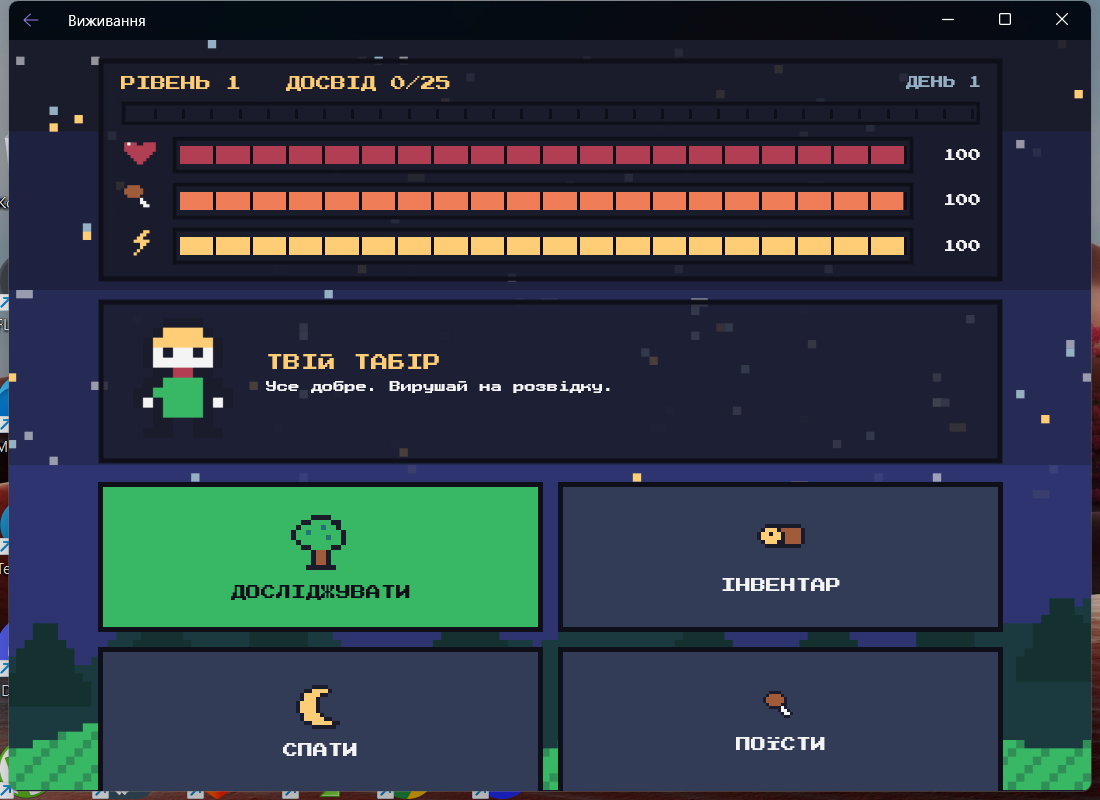
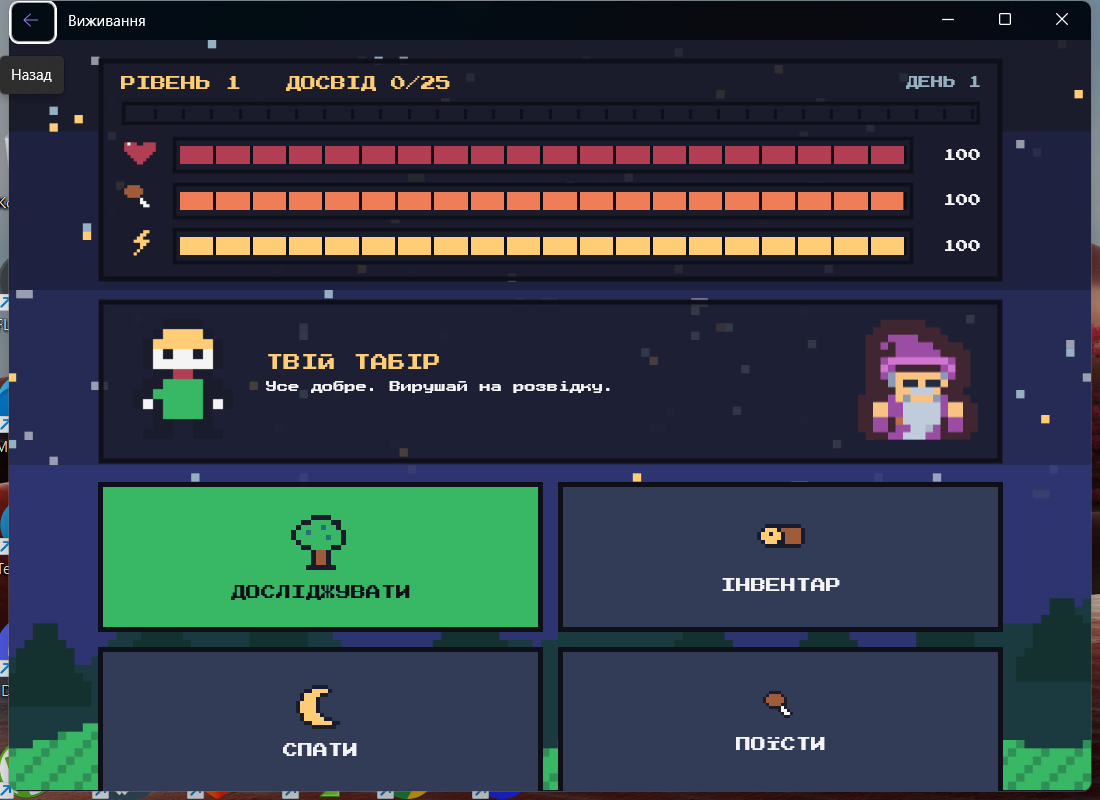
ДЗ 7: спрайти Kenney (CC0): плитки землі, мешканці локацій, сундук нагороди, чарівник у таборі

Changed region(s): [[0.7727, 0.375, 0.8964, 0.5625], [0.0, 0.0, 0.0618, 0.125], [0.1236, 0.4062, 0.1855, 0.4688]]

diff --git a/07-MauiSurvival/Pages/HomePage.xaml b/07-MauiSurvival/Pages/HomePage.xaml
@@ -18,7 +18,7 @@
                 <!-- Герой і його інструменти -->
                 <Border BackgroundColor="#CC1A1C2C" Stroke="{StaticResource Ink}" StrokeThickness="4" Padding="16,14">
                     <Border.StrokeShape><Rectangle /></Border.StrokeShape>
-                    <Grid ColumnDefinitions="Auto,*" ColumnSpacing="18">
+                    <Grid ColumnDefinitions="Auto,*,Auto" ColumnSpacing="18">
                         <Grid WidthRequest="96" HeightRequest="96" VerticalOptions="Center">
                             <Image x:Name="HeroImage" Source="hero.png" />
                             <!-- Шар для літаючих написів над героєм (хропіння «Z») -->
@@ -29,6 +29,8 @@
                             <Label x:Name="StatusLabel" Text="" FontSize="9" LineHeight="1.7" LineBreakMode="WordWrap" />
                             <HorizontalStackLayout x:Name="ToolsRow" Spacing="8" />
                         </VerticalStackLayout>
+                        <!-- Супутник у таборі (спрайт Kenney, CC0) -->
+                        <Image Grid.Column="2" x:Name="WizardImage" Source="k_wizard.png" WidthRequest="96" HeightRequest="96" VerticalOptions="Center" />
                     </Grid>
                 </Border>
 

diff --git a/07-MauiSurvival/Pages/ScenePage.xaml b/07-MauiSurvival/Pages/ScenePage.xaml
@@ -60,7 +60,10 @@
                         <Border.StrokeShape><Rectangle /></Border.StrokeShape>
                         <VerticalStackLayout Spacing="9" HorizontalOptions="Center">
                             <Label x:Name="ResultTitle" Text="ГОТОВО!" Style="{StaticResource TitleLabel}" FontSize="20" />
-                            <Image x:Name="ResultIcon" WidthRequest="96" HeightRequest="96" HorizontalOptions="Center" />
+                            <Grid HorizontalOptions="Center" WidthRequest="140" HeightRequest="150">
+                                <Image x:Name="ResultChest" Source="k_chest_closed.png" WidthRequest="112" HeightRequest="112" VerticalOptions="End" />
+                                <Image x:Name="ResultIcon" WidthRequest="64" HeightRequest="64" VerticalOptions="Start" Opacity="0" />
+                            </Grid>
                             <Label x:Name="ResultAmount" FontSize="20" TextColor="{StaticResource Gold}" HorizontalOptions="Center" />
                             <Label x:Name="ResultInfo" FontSize="10" TextColor="#94B0C2" HorizontalOptions="Center" HorizontalTextAlignment="Center" LineHeight="1.7" />
                         </VerticalStackLayout>

diff --git a/07-MauiSurvival/Pages/ScenePage.xaml.cs b/07-MauiSurvival/Pages/ScenePage.xaml.cs
@@ -21,7 +21,7 @@ public partial class ScenePage : ContentPage
 
     // ----- Вигляд сцени залежить від ресурсу (що б'ємо) і від локації (небо, земля, атмосфера) -----
     private sealed record TargetStyle(string Image, string? Tool, string[] Chips, string Verb, bool Falls);
-    private sealed record PlaceStyle(string[] Sky, string Ground, string GroundDark, string? SkyDecor, string Ambient);
+    private sealed record PlaceStyle(string[] Sky, string Ground, string GroundDark, string? SkyDecor, string Ambient, string[]? Tiles, string Critter, string CritterImage);
 
     private static readonly Dictionary<string, TargetStyle> Targets = new()
     {
@@ -38,10 +38,10 @@ public partial class ScenePage : ContentPage
 
     private static readonly Dictionary<string, PlaceStyle> Places = new()
     {
-        ["forest"] = new(new[] { "#1A2A3A", "#1F3A44", "#24505A", "#2D6A63" }, "#2F8F57", "#257A4A", "icon_sleep.png", "fireflies"),
-        ["desert"] = new(new[] { "#7A3B4F", "#A24B4B", "#D06A4A", "#EFA05A" }, "#E0B36A", "#C99A52", "loc_desert.png", "dust"),
-        ["tundra"] = new(new[] { "#2F4A73", "#4B6F9C", "#7EA0C4", "#B8D4E8" }, "#E8F1F7", "#C7D8E6", "loc_tundra.png", "snow"),
-        ["cave"] = new(new[] { "#0D0D16", "#14131F", "#1C1B2A", "#262538" }, "#3A3A4E", "#2C2C3C", null, "drips"),
+        ["forest"] = new(new[] { "#1A2A3A", "#1F3A44", "#24505A", "#2D6A63" }, "#2F8F57", "#257A4A", "icon_sleep.png", "fireflies", null, "slime", "k_slime.png"),
+        ["desert"] = new(new[] { "#7A3B4F", "#A24B4B", "#D06A4A", "#EFA05A" }, "#E0B36A", "#C99A52", "loc_desert.png", "dust", new[] { "k_floor0.png", "k_floor1.png", "k_floor2.png", "k_floor3.png" }, "spider", "k_spider.png"),
+        ["tundra"] = new(new[] { "#2F4A73", "#4B6F9C", "#7EA0C4", "#B8D4E8" }, "#E8F1F7", "#C7D8E6", "loc_tundra.png", "snow", null, "ghost", "k_ghost.png"),
+        ["cave"] = new(new[] { "#0D0D16", "#14131F", "#1C1B2A", "#262538" }, "#3A3A4E", "#2C2C3C", null, "drips", new[] { "k_brick0.png", "k_brick1.png", "k_brick2.png" }, "bat", "k_bat.png"),
     };
 
     private bool IsSleepScene => Mode == "sleep";
@@ -60,6 +60,7 @@ public partial class ScenePage : ContentPage
     {
         InitializeComponent();
         ProgressHolder.Content = _progress;
+        Stage.SizeChanged += (_, _) => { if (_style.Tiles is not null && Stage.Width > 0) { GroundTexture.Clear(); BuildTiles(); } };
     }
 
     // ================= Життєвий цикл =================
@@ -118,6 +119,7 @@ public partial class ScenePage : ContentPage
         ResetVisuals();
 
         var token = _loops.Token;
+        if (!IsSleepScene) _ = CritterAsync(token);
         _ = AmbientAsync(token);
         _ = IsSleepScene ? SleepLoopAsync(token) : WorkLoopAsync(token);
         OnChanged();
@@ -136,8 +138,9 @@ public partial class ScenePage : ContentPage
         SkyDecor.Source = _style.SkyDecor;
         SkyDecor.IsVisible = _style.SkyDecor is not null;
 
-        // Текстура землі: розкидані темніші «пікселі»
+        // Текстура землі: або плитки Kenney (пустеля, печера), або розкидані темніші «пікселі»
         GroundTexture.Clear();
+        if (_style.Tiles is not null) { BuildTiles(); goto textureDone; }
         var rnd = new Random(_place.Id.GetHashCode());
         for (var i = 0; i < 46; i++)
         {
@@ -148,6 +151,7 @@ public partial class ScenePage : ContentPage
             GroundTexture.Add(tuft);
         }
 
+        textureDone:
         if (IsSleepScene)
         {
             TargetImage.Source = "logo_fire.png";
@@ -264,12 +268,32 @@ public partial class ScenePage : ContentPage
         }
 
         // Панель результату виринає з пружинним ефектом
+        ResultChest.IsVisible = !IsSleepScene;
+        ResultChest.Source = "k_chest_closed.png";
+        ResultChest.Rotation = 0;
+        ResultIcon.Opacity = IsSleepScene ? 1 : 0;
+        ResultIcon.TranslationY = 0;
+        ResultIcon.VerticalOptions = IsSleepScene ? LayoutOptions.Center : LayoutOptions.Start;
         ResultPanel.Scale = 0.6;
         ResultPanel.Opacity = 0;
         ResultPanel.IsVisible = true;
         _ = ResultPanel.FadeTo(1, 160);
         await ResultPanel.ScaleTo(1.08, 170, Easing.CubicOut);
         await ResultPanel.ScaleTo(1, 130, Easing.CubicIn);
+
+        // Сундук трясеться, відкривається, і з нього вистрибує нагорода
+        if (!IsSleepScene)
+        {
+            for (var i = 0; i < 3; i++) { await ResultChest.RotateTo(-7, 60); await ResultChest.RotateTo(7, 60); }
+            await ResultChest.RotateTo(0, 60);
+            ResultChest.Source = "k_chest_open.png";
+            ResultIcon.TranslationY = 80;   // стартує всередині сундука
+            ResultIcon.Scale = 0.4;
+            _ = ResultIcon.FadeTo(1, 140);
+            _ = ResultIcon.ScaleTo(1.25, 260, Easing.CubicOut);
+            await ResultIcon.TranslateTo(0, -6, 300, Easing.CubicOut);
+            await ResultIcon.ScaleTo(1, 160, Easing.CubicIn);
+        }
 
         WorkButtons.IsVisible = false;
         DoneButtons.IsVisible = true;
@@ -373,6 +397,71 @@ public partial class ScenePage : ContentPage
         await Fx.FloatTextAsync(FxLayer, "Z", Color.FromArgb("#73EFF7"), x, y, 70, 1500);
     }
 
+
+    // ================= Плитки землі й мешканці місця (спрайти Kenney, CC0) =================
+
+    /// <summary>Вимощує землю плитками 64x64 (плитки вибираються випадково з набору локації).</summary>
+    private void BuildTiles()
+    {
+        if (_style.Tiles is null || Stage.Width <= 0) return;
+        const double size = 64;
+        var rnd = new Random(_place.Id.GetHashCode());
+        var groundHeight = Stage.Height * 0.38;
+        for (var row = 0; row * size < groundHeight; row++)
+        {
+            for (var col = 0; col * size < Stage.Width; col++)
+            {
+                var tile = new Image { Source = _style.Tiles[rnd.Next(_style.Tiles.Length)], WidthRequest = size, HeightRequest = size, Aspect = Aspect.Fill, InputTransparent = true };
+                AbsoluteLayout.SetLayoutBounds(tile, new Rect(col * size, row * size, size, size));
+                GroundTexture.Add(tile);
+            }
+        }
+    }
+
+    /// <summary>Мешканець локації (слиз, павук, привид, кажан) бродить і літає на задньому плані.</summary>
+    private async Task CritterAsync(CancellationToken token)
+    {
+        var critter = new Image { Source = _style.CritterImage, WidthRequest = 72, HeightRequest = 72, InputTransparent = true, Opacity = _style.Critter == "ghost" ? 0.8 : 1 };
+        AbsoluteLayout.SetLayoutBounds(critter, new Rect(0, 0, 72, 72));
+        FxLayer.Add(critter);
+
+        await Task.Delay(150);
+        var rnd = new Random();
+        var w = Stage.Width > 0 ? Stage.Width : 800;
+        var h = Stage.Height > 0 ? Stage.Height : 400;
+        var baseY = _style.Critter is "ghost" ? h * 0.20 : _style.Critter is "bat" ? h * 0.24 : h * 0.74;
+        var x = w * 0.52;
+        critter.TranslationX = x;
+        critter.TranslationY = baseY;
+
+        while (!token.IsCancellationRequested)
+        {
+            var nx = Math.Clamp(x + rnd.Next(-230, 230), 30, w - 110);
+            critter.ScaleX = nx < x ? -1 : 1;
+
+            switch (_style.Critter)
+            {
+                case "slime":   // стрибками по землі
+                    await critter.TranslateTo((x + nx) / 2, baseY - 36, 240, Easing.CubicOut);
+                    await critter.TranslateTo(nx, baseY, 240, Easing.CubicIn);
+                    await Task.Delay(rnd.Next(500, 1300), token).ContinueWith(_ => { });
+                    break;
+                case "spider":  // повзе
+                    await critter.TranslateTo(nx, baseY + rnd.Next(-8, 8), (uint)(Math.Abs(nx - x) * 4 + 300), Easing.Linear);
+                    await Task.Delay(rnd.Next(400, 1100), token).ContinueWith(_ => { });
+                    break;
+                case "ghost":   // повільно пливе
+                    await critter.TranslateTo(nx, baseY + rnd.Next(-24, 24), 2800, Easing.SinInOut);
+                    break;
+                default:        // кажан: ширяє і змахує крилами (розтягується по висоті)
+                    _ = critter.ScaleYTo(0.8, 160).ContinueWith(_ => { });
+                    await critter.TranslateTo(nx, baseY + rnd.Next(-20, 50), 1600, Easing.SinInOut);
+                    await critter.ScaleYTo(1, 120);
+                    break;
+            }
+            x = nx;
+        }
+    }
     // ================= Атмосфера: світлячки, пил, сніг, краплі =================
 
     private async Task AmbientAsync(CancellationToken token)

diff --git a/07-MauiSurvival/Pages/HomePage.xaml.cs b/07-MauiSurvival/Pages/HomePage.xaml.cs
@@ -37,8 +37,8 @@ public partial class HomePage : ContentPage
     {
         while (!token.IsCancellationRequested)
         {
-            await HeroImage.TranslateTo(0, -5, 650, Easing.SinInOut);
-            await HeroImage.TranslateTo(0, 0, 650, Easing.SinInOut);
+            await Task.WhenAll(HeroImage.TranslateTo(0, -5, 650, Easing.SinInOut), WizardImage.TranslateTo(0, -4, 650, Easing.SinInOut));
+            await Task.WhenAll(HeroImage.TranslateTo(0, 0, 650, Easing.SinInOut), WizardImage.TranslateTo(0, 0, 650, Easing.SinInOut));
         }
     }
 

diff --git a/07-MauiSurvival/README.md b/07-MauiSurvival/README.md
@@ -7,6 +7,8 @@
 ![Сцена: рубаємо дерево](docs/screenshot-scene.png)
 ![Результат](docs/screenshot-result.png)
 ![Сон біля вогнища](docs/screenshot-sleep.png)
+![Пустеля](docs/screenshot-desert.png)
+![Печера](docs/screenshot-cave.png)
 
 ## Що зроблено (за завданням з 15.10)
 
@@ -48,3 +50,8 @@ dotnet run -f net8.0-windows10.0.19041.0
 5. **Навігація.** Екрани зареєстровані в `AppShell.xaml.cs` через `Routing.RegisterRoute`; параметри (`place`, `action`) передаються в рядку маршруту і потрапляють у сторінку через `[QueryProperty]`.
 6. **Анімації.** Смуги плавно «доганяють» значення таймером ~60 разів на секунду. Уламки летять по параболі (формула у `Animation`). Зірки і хмаринки фону на Windows віддані композитору WinUI (відеопідсистемі), тому не навантажують процесор.
 7. **Збереження.** `SaveData` серіалізується в JSON (`survival-save.json`) у приватній папці застосунку.
+
+## Ресурси і ліцензії
+
+- Частину спрайтів (сундук, чарівник, слиз, павук, привид, кажан, плитки підлоги) узято з пакета **Tiny Dungeon** від [Kenney](https://kenney.nl/assets/tiny-dungeon), ліцензія **CC0** (текст у `licenses/Kenney-TinyDungeon-CC0.txt`). Решта малюнків намальована скриптом `tools/GenerateSprites.ps1`.
+- Шрифт [Press Start 2P](https://fonts.google.com/specimen/Press+Start+2P), ліцензія SIL OFL (`licenses/PressStart2P-OFL.txt`).
